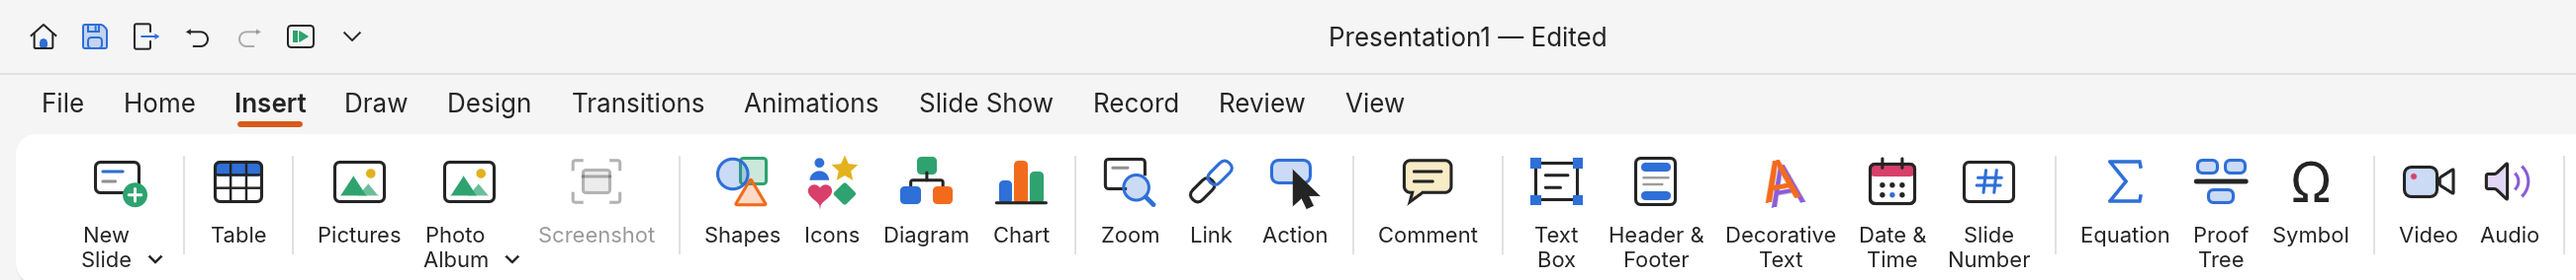
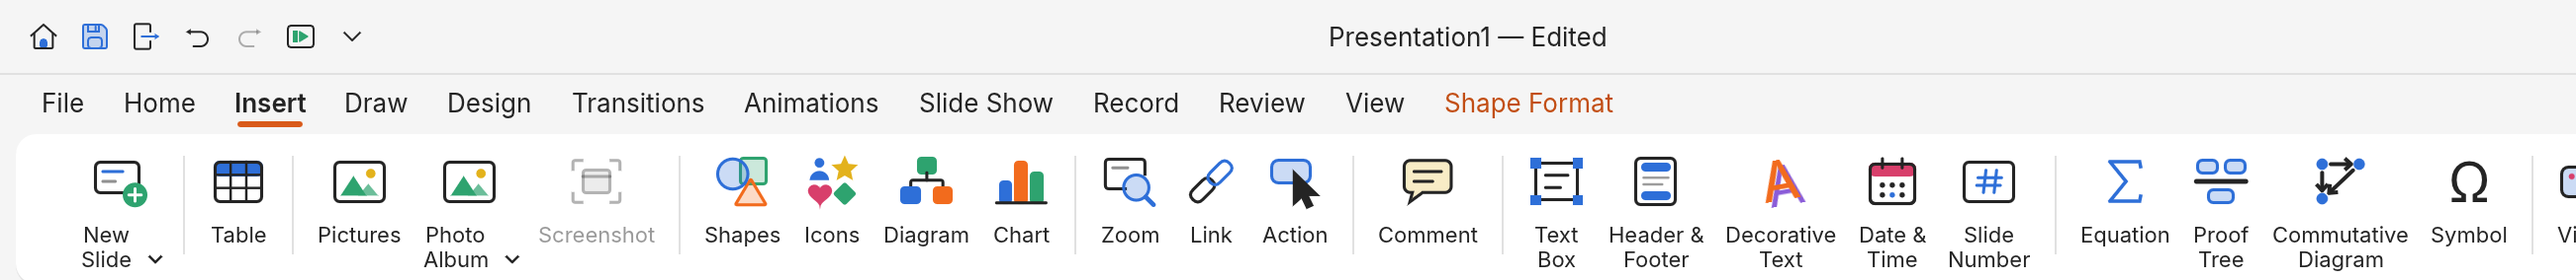
[cd] README and ROADMAP: commutative diagrams and the known limitations
A tutorial section for Insert > Commutative Diagram and tikz-cd input, with screenshots;
the README's limitations are now complete and grouped (all typeset LaTeX, formulas,
proof trees, diagrams and their editor), and the ROADMAP lists the main ones under
Features. The Insert tab screenshot shows the new button.

diff --git a/README.md b/README.md
@@ -58,7 +58,7 @@
 <p align="center">
   <a href="#what-works-today">What works</a> ·
   <a href="#getting-started">Getting started</a> ·
-  <a href="#tutorial-latex-equations-and-proof-trees">LaTeX and proof trees</a> ·
+  <a href="#tutorial-latex-equations-proof-trees-and-commutative-diagrams">LaTeX and diagrams</a> ·
   <a href="#agents-cli-and-mcp">Agents, CLI and MCP</a> ·
   <a href="#roadmap">Roadmap</a> ·
   <a href="#downloads">Downloads</a> ·
@@ -83,8 +83,9 @@ Today it can:
 - **Add content**: pictures with crop and corrections, tables with styles, charts, SmartArt basics,
   audio and video (MP3, AAC, FLAC, ALAC, Ogg, Opus, WAV, AIFF; H.264, HEVC, VP9, AV1).
 - **Typeset math and logic**: LaTeX formulas, arrays and proof trees (ebproof, bussproofs,
-  mathpartir, proof.sty), equations inside a line of text, and a visual Proof Tree builder (see the
-  [tutorial](#tutorial-latex-equations-and-proof-trees)).
+  mathpartir, proof.sty), equations inside a line of text, a visual Proof Tree builder, and
+  commutative diagrams (tikz-cd) drawn in a grid editor (see the
+  [tutorial](#tutorial-latex-equations-proof-trees-and-commutative-diagrams)).
 - **Present**: transitions (including Morph), entrance/emphasis/exit and motion-path animations,
   by-paragraph builds, full-screen slide show, presenter view, pen, rehearse timings, media playback.
 - **Exchange files**: open and save .pptx presentations, export PDF (slides, notes pages, handouts
@@ -156,16 +157,16 @@ crashed survives the next start. The file stops growing at 16 MiB. `--version` w
 The logger is `apps/deckcraft/src/logging.rs`; the realtime audio callback does not log. The web
 app logs to the browser console instead.
 
-## Tutorial: LaTeX equations and proof trees
+## Tutorial: LaTeX equations, proof trees and commutative diagrams
 
-DeckCraft sets LaTeX itself: formulas, arrays and tables, aligned derivations and proof trees
-become ordinary slide shapes (text boxes and rules in a group). They look the same in DeckCraft,
+DeckCraft sets LaTeX itself: formulas, arrays and tables, aligned derivations, proof trees and
+commutative diagrams become ordinary slide shapes (text boxes, rules and arrows in a group). They look the same in DeckCraft,
 in exported PDFs and in PowerPoint, and they keep their LaTeX, so you can open them again and
 change them. This tutorial walks through each part. Shortcuts are written with Ctrl; on macOS use ⌘.
 
 <p align="center">
-  <img alt="The Insert tab with Equation, Proof Tree and Symbol side by side" src="docs/images/latex-insert-tab.png" width="900"><br>
-  <sub>Everything starts on the Insert tab: <b>Equation</b> and <b>Proof Tree</b></sub>
+  <img alt="The Insert tab with Equation, Proof Tree, Commutative Diagram and Symbol side by side" src="docs/images/latex-insert-tab.png" width="900"><br>
+  <sub>Everything starts on the Insert tab: <b>Equation</b>, <b>Proof Tree</b> and <b>Commutative Diagram</b></sub>
 </p>
 
 ### 1. Insert a formula
@@ -350,8 +351,9 @@ and says what it can't keep).
 
 - **Double-click** a typeset formula or array to reopen it in the Equation dialog, with **Change
   the selected one** ticked so **Update** replaces it in place (untick it to insert a new copy).
-  Double-click a proof tree to open it in the Proof Tree builder; from the Equation dialog,
-  **Open in Proof Tree builder** does the same. Each change is one step of the deck's undo.
+  Double-click a proof tree to open it in the Proof Tree builder, and a diagram to open it in the
+  Commutative Diagram editor; from the Equation dialog, **Open in Proof Tree builder** and **Open
+  in diagram editor** do the same. Each change is one step of the deck's undo.
 - **Resize** a typeset shape with a corner handle. It keeps its proportions and is set again at the
   new size, so the text and rules stay sharp rather than stretched, and the new size is kept for
   the next edit.
@@ -360,7 +362,92 @@ and says what it can't keep).
   <img alt="The same proof at 14 pt and, dragged larger, set again at about 49 pt" src="docs/images/latex-resize.png" width="900">
 </p>
 
-### 6. From scripts and agents
+### 6. Draw commutative diagrams
+
+**Insert ▸ Commutative Diagram** opens an editor for the diagrams of category theory: objects on a
+grid and arrows between them, in the manner of quiver. DeckCraft draws the diagram itself,
+following tikz-cd's spacing and arrow tips, so no TeX installation is needed. It keeps the
+diagram as tikz-cd LaTeX, which compiles in your paper with `\usepackage{tikz-cd}`.
+
+<p align="center">
+  <img alt="The Commutative Diagram editor: a pullback square on its grid with the hooked arrow f selected, and the side panel with its label, label side, start, line and end pictures, curve, offset, shortening and crossing over" src="docs/images/cd-editor.png" width="900">
+</p>
+
+On the grid:
+
+- **Add an object**: click an empty cell. Its label starts as `\bullet` and is already selected,
+  so type to replace it; click the next empty cell for the next object.
+- **Add an arrow**: drag from one object to another. Drop it on an empty cell to add the object
+  there too, back on the same object for a loop, or on an arrow for an arrow between arrows (a
+  2-cell, drawn double, like a natural transformation).
+- **Select**: click (Shift-click adds), or drag a box around several. Double-click an object or an
+  arrow to type its label.
+- **Move**: Alt-drag objects (or Alt+arrow keys); their arrows follow.
+- **Shape an arrow**: drag the round handle in the middle of a selected arrow sideways to bend it,
+  and drag its label along it or across to its other side.
+
+What the side panel sets depends on the selection:
+
+| Selected | You set |
+|---|---|
+| Nothing | Row and column spacing: tikz-cd's tiny, small, scriptsize, normal, large and huge, or a length in ems |
+| An object | Its label (LaTeX, with a strip of common symbols: ∘ × ⊗ ≅ ⊣ ⊥ ∃! 𝒞 α…), a frame (none, box, circle) and a colour |
+| An arrow | Its label, the label's side (left or right of the arrow, on it over a patch of background, or on it with nothing behind) and its place along the arrow; how it starts (nothing, ↣, a hook either way, ↦, an arrowhead), its line (solid, dashed, dotted, squiggly, double, or none for a label only) and how it ends (arrowhead, ↠, a harpoon either way, nothing), each picked from a picture of it; curve; offset (for parallel arrows); shortening at either end; width; colour; crossing over; and a loop's direction |
+
+Several arrows or objects selected change together. The toolbar has **Undo**/**Redo**,
+**Copy**/**Cut**/**Paste** (pasting at the selected cell; tikz-cd text from the clipboard pastes
+too), **Delete**, **Reverse**, **Flip ↔**, **Flip ↕**, **Rotate**, **Corner ⌟** (marks the
+selected object as a pullback or pushout corner), **Templates**, zoom, and the **Size** and
+**Font** the diagram is set in. The templates are a commutative square, triangle, pullback,
+pushout, product, coproduct, equalizer, span, cospan, adjunction, natural transformation, short
+exact sequence, isomorphism and endomorphism.
+
+| Keys | Does |
+|---|---|
+| Arrow keys | Move between cells (selecting the object there) |
+| Alt+arrow keys | Move the selected objects a cell |
+| Enter or F2 | Type the selected object's or arrow's label; on an empty cell, add an object |
+| Delete | Delete the selection (and the arrows reaching it) |
+| Ctrl+A, Ctrl+C / X / V | Select everything; copy, cut, paste |
+| Ctrl+Z, Ctrl+Shift+Z or Ctrl+Y | Undo, redo |
+| Esc | In a label: put it back as it was. Then: clear the selection. Then: close (asking first if anything changed) |
+| Ctrl+Enter | Insert or Update, and close |
+
+The **LaTeX (tikz-cd)** pane shows what the editor writes, and edits both ways: paste a diagram
+from a paper, or from quiver's LaTeX export, and the picture follows. **Copy LaTeX** puts it on the
+clipboard. The pullback above is:
+
+```latex
+\begin{tikzcd}
+	P \arrow[r, "p_2"] \arrow[d, "p_1"'] \arrow[dr, phantom, "\lrcorner", very near start] & B \arrow[d, two heads, "g"] \\
+	A \arrow[r, hook, "f"'] & C
+\end{tikzcd}
+```
+
+<p align="center">
+  <img alt="A slide of four diagrams: a pullback with a hook and an epimorphism, a natural transformation between two functors, a diagram with every kind of arrow, and an adjunction" src="docs/images/cd-diagrams.png" width="900">
+</p>
+
+You can also type or paste tikz-cd straight into **Insert ▸ Equation**. DeckCraft reads:
+
+- `\arrow[…]` and `\ar[…]`, the older `\arrow{dr}{f}` form and the `\rar`-style shortcuts;
+- targets by direction (`r`, `dl`, `uu`) or by `from=`/`to=` with a cell (`2-1`) or a name given
+  by `|[alias=…]|`, and 2-cells reaching arrows by the name of a label node (`""{name=U}`);
+- labels `"f"`, `"f"'` (other side), `"f" description`, `"f" marking`, `near start`, `pos=0.3`,
+  `"f"{text=red}`;
+- the arrow styles in tikz-cd's manual (`hook`, `hook'`, `tail`, `two heads`, `maps to`,
+  `harpoon`, `Rightarrow`, `Leftrightarrow`, `equal`, `dashed`, `dotted`, `squiggly`, `phantom`,
+  `hookrightarrow`, `twoheadleftarrow`…), `bend left/right`, `shift left/right`, `shorten`,
+  `line width` and TikZ's `thin`…`ultra thick`, colours (`red`, `{rgb,255:red,…}`),
+  `crossing over`, `loop above`/`right`/`below`/`left`;
+- cell frames (`|[draw]|`, `|[draw, circle]|`), `row sep`, `column sep`, `sep`, `\\[2em]`,
+  `&[1em]` and `ampersand replacement`.
+
+Options DeckCraft doesn't draw are kept and written back. Squiggly arrows need
+`\usetikzlibrary{decorations.pathmorphing}` in your preamble; the LaTeX says so in a comment, and
+the editor in its footer.
+
+### 7. From scripts and agents
 
 The same features are commands, so `deckcraft-cli`, the control channel and MCP agents use them
 too:
@@ -375,27 +462,88 @@ deckcraft-cli run \
 
 | Command | Parameters | Does |
 |---|---|---|
-| `insert.latex` | `latex`, `rect?` (x and y place it), `size?` (24), `font?` (Liberation Serif; `""` for the theme's) | Typesets a formula, grid or proof; returns its `id` and `kind` |
+| `insert.latex` | `latex`, `rect?` (x and y place it), `size?` (24), `font?` (Liberation Serif; `""` for the theme's) | Typesets a formula, grid, proof or tikz-cd diagram; returns its `id` and `kind` |
 | `insert.equation` | `latex`, `rect?`, `size?` | Inserts an Office equation; while text is being edited, inline at the cursor |
 | `latex.get` | `id?` | The selected LaTeX shape's `latex`, `kind`, `size` and `font` |
 | `latex.set` | `latex`, `id?`, `size?`, `font?` | Sets a LaTeX shape again in place, or rewrites an equation |
 
+A diagram is the same command with tikz-cd:
+
+```sh
+deckcraft-cli run \
+  --cmd 'insert.latex={"latex":"\\begin{tikzcd} A \\arrow[r, \"f\"] \\arrow[d, hook] & B \\arrow[d, two heads] \\\\ C \\arrow[r, \"g\"] & D \\end{tikzcd}","size":28}' \
+  --export square.png
+```
+
 `deckcraft-cli describe insert.latex` prints the full parameter description.
 
 ### Limitations
+
+**All typeset LaTeX** (formulas, arrays, proof trees and diagrams):
+
+- It is set again from its LaTeX whenever it is edited or resized. Changes made to its pieces
+  (in DeckCraft after ungrouping, or in PowerPoint) are replaced at that point.
+- amssymb's names (`\vDash`, `\Vdash`, `\nvdash`, `\Box`, `\Diamond`, `\land`, `\lor`,
+  `\lrcorner` and many relations) and `\underset` over a function name
+  (`\underset{x}{\min} f(x)`) need the craft-math in DeckCraft's next craft-libs update. A build
+  against an older craft-libs shows those names as written.
+- Symbols Liberation Serif doesn't have (⊢, ⊨, ∧, script and blackboard letters such as 𝒞 and ℕ)
+  come from fallback fonts. Which installed font draws them can differ between machines. Choose
+  another font with the **Font** field or the `font` parameter.
+- A source is limited to 20,000 characters.
+
+**Formulas and equations:**
 
 - A formula is set on one line: `\frac{a}{b}` reads `a/b`, roots use √ and ∛, `\overset`,
   `\underset` and `\stackrel` sit as superscripts and subscripts, and matrices are written
   row by row. Stacked fractions, big delimiters and environments such as `cases` and `pmatrix`
   are not laid out in two dimensions yet.
 - Office equations are drawn in their linear form inside DeckCraft. PowerPoint shows them in full.
-- amssymb's names (`\vDash`, `\Vdash`, `\nvdash`, `\Box`, `\Diamond`, `\land`, `\lor` and many
-  relations) and `\underset` over a function name (`\underset{x}{\min} f(x)`) need the craft-math
-  in DeckCraft's next craft-libs update. A build against an older craft-libs shows those names as
-  written.
-- Symbols Liberation Serif doesn't have (such as ⊢, ⊨, ∧) come from DeckCraft's fallback fonts.
-  Choose another font with the builder's **Font** field or the `font` parameter.
-- A source is limited to 20,000 characters, and a proof to 2,000 steps and 160 levels.
+- An inline equation is changed through its text box (select the box, then **Insert ▸ Equation**),
+  which changes the box's first equation.
+
+**Proof trees:** a proof has at most 2,000 steps and 160 levels. The builder writes ebproof, so a
+proof written in bussproofs, mathpartir or proof.sty is rewritten in ebproof when you update it from
+the builder, and dotted rules become dashed (ebproof has none).
+
+**Commutative diagrams:**
+
+- DeckCraft draws the diagram itself. Spacing, arrow tips and label placement follow tikz-cd's
+  manual and its measured output, but objects are set in Liberation Serif rather than Computer
+  Modern, so widths differ a little. The height of each object is estimated, not measured from its
+  glyphs. Objects and labels are formulas, so the one-line limit above applies inside them.
+- Read, kept in the LaTeX, but not drawn: `sloped` labels and labels placed with `above`, `below`,
+  `left` or `right`; `start anchor`/`end anchor`; `xshift`, `yshift` and `shift={…}`; `out`, `in`,
+  `looseness` and `min distance`; `dash pattern`; TikZ arrow-tip specifications (`->`,
+  `-{Stealth}`) and `arrow style`; colour mixes such as `red!50`; `cells`, `arrows`, `labels`,
+  `cramped` and `math mode`; and cell options other than `draw`, `circle`, a colour and `alias`.
+  Such arrows are drawn with tikz-cd's defaults.
+- Only tikz-cd's named arrow styles are drawn. On a double line only its own tips are drawn (an
+  arrowhead, a bar or none at either end); other tips on a double line are drawn as on a single
+  line.
+- An arrow between arrows starts and ends at the middle of the arrows it joins (the `pos` of a
+  named label node isn't followed).
+- Loops go above, right, below or left of their object; bending or shifting a loop is ignored.
+- Labels on the arrow (`description`) and the gaps of `crossing over` are filled with the slide's
+  background colour, so on a picture or gradient background they show as a patch.
+- Squiggly arrows need `\usetikzlibrary{decorations.pathmorphing}` in your preamble; without it
+  tikz-cd draws them straight.
+- From quiver: triple arrows (⇛, from `quiver.sty`) are drawn double, `curve={height=…}` becomes
+  the nearest `bend`, and `between={…}{…}` is kept but not drawn. Share links aren't read; paste
+  quiver's LaTeX export instead.
+- Not read as diagrams: `\xymatrix`, amscd's `{CD}`, and every `tikzcd` after the first in one
+  source.
+- A diagram has at most 64 rows, 64 columns and 1,000 arrows; arrows between arrows nest at most
+  8 deep; a label or object has at most 2,000 characters.
+- The editor:
+  - It edits an arrow's first label; any others are drawn, kept and changed in the LaTeX pane.
+  - **Colour** colours an arrow together with its labels. The LaTeX can colour them separately.
+  - Row and column gaps written `\\[2em]` or `&[1em]` are kept but can't be changed in the
+    editor, and **Flip** and **Rotate** drop them.
+  - It writes the LaTeX in its own layout. Comments, spacing, cell names (`alias`) and the order of
+    the arrows aren't kept: arrows are written after the objects they start at, except in a
+    diagram with `crossing over`, whose order is kept because it decides what crosses what.
+  - Labels are typed in the side panel, not on the picture.
 
 ## Agents, CLI and MCP
 

diff --git a/ROADMAP.md b/ROADMAP.md
@@ -2,7 +2,7 @@
 
 **Stage: alpha** · next: beta, ~20 points and ~120–210 h away
 
-> **Last reviewed:** 2026-11-04 · **Last updated:** 2026-11-14 · **Change:** trivial (progress log: the README tutorial for LaTeX equations and proof trees; previous: trivial (progress log: the Proof Tree builder; previous: trivial (progress log: LaTeX equations and proof trees; equations checklist row M → P; previous: trivial (slide-list entries with missing relationships are reported as lost slides and open as repaired copies; the Opus decoder and the Ogg, MP4 and Matroska demuxers come from craft-libs; parity scores unchanged)))) · **Target:** Microsoft PowerPoint for Mac 16.113 (Microsoft 365)
+> **Last reviewed:** 2026-11-04 · **Last updated:** 2026-11-14 · **Change:** trivial (progress log: commutative diagrams (tikz-cd) and their editor; known limitations of typeset LaTeX; previous: trivial (progress log: the README tutorial for LaTeX equations and proof trees; previous: trivial (progress log: the Proof Tree builder; previous: trivial (progress log: LaTeX equations and proof trees; equations checklist row M → P; previous: trivial (slide-list entries with missing relationships are reported as lost slides and open as repaired copies; the Opus decoder and the Ogg, MP4 and Matroska demuxers come from craft-libs; parity scores unchanged))))) · **Target:** Microsoft PowerPoint for Mac 16.113 (Microsoft 365)
 > **Last reviewed:** 2026-11-02 · **Last updated:** 2026-11-03 · **Change:** trivial (progress log: web `?host=parent` bridge opens and saves through a same-origin framing page; scores unchanged) · **Target:** Microsoft PowerPoint for Mac 16.113 (Microsoft 365)
 
 > **Last reviewed:** 2026-11-02 · **Last updated:** 2026-11-03 · **Change:** trivial (community PR wave 10: PPTX and native saves keep table cell centred anchoring, text overflow, compatible line spacing, normalised character height, Thai distributed alignment, RTL table direction, alternate run language and reflection transforms; imported effects placed by parent time-node delays; Reuse Slides fits the destination size and brings custom table styles; deleted slides leave custom shows; merged shapes drop their animations; Compress Pictures measures grouped pictures at displayed size; parity scores unchanged) · **Target:** Microsoft PowerPoint for Mac 16.113 (Microsoft 365)
@@ -105,6 +105,30 @@ EMF/SVG pictures, the data-loss and startup-crash bugs (#60, #40, #59) and the b
 | Undo and clipboard | 100% | ~75% | 3–5 | [ui-parity](docs/ui-parity.md) |
 | Files (commands; formats above) | 75% | ~50% | in file formats | [file formats](docs/file-format-parity.md) |
 
+### Typeset LaTeX: known limitations
+
+Formulas, proof trees and commutative diagrams (part of Text) are typeset by DeckCraft itself.
+The [README's tutorial](README.md#limitations) lists every limitation; the main ones:
+
+- **Needs the next craft-libs update:** amssymb's names (`\vDash`, `\nvdash`, `\Box`, `\land`,
+  `\lrcorner` for pullback corners…) and `\underset` over a function name come with craft-math
+  changes that are on a local craft-libs branch, not yet in DeckCraft's pinned craft-libs.
+- **Formulas are one line:** no stacked fractions, `cases` or `pmatrix`. Office Math equations are
+  drawn as their linear text in DeckCraft.
+- **Diagrams are drawn by DeckCraft:** spacing and tips follow tikz-cd's manual and its measured
+  output, in Liberation Serif rather than Computer Modern. Not drawn, but kept in the LaTeX:
+  `sloped` labels, label anchors, `start`/`end anchor`, coordinate shifts, `in`/`out` angles,
+  TikZ arrow-tip specs and colour mixes. Arrows between arrows meet the middles of the arrows they
+  join. Loops go in four directions. Backgrounds behind labels and crossings use the slide's
+  background colour. Squiggly arrows need `decorations.pathmorphing` in the paper's preamble.
+  quiver's triple arrows are drawn double and its curve heights approximated; share links,
+  `\xymatrix` and `{CD}` aren't read.
+- **The diagram editor:** it edits an arrow's first label, colours an arrow with its labels,
+  doesn't edit row and column gaps, and rewrites the LaTeX in its own layout (comments and cell
+  names go).
+- **Limits:** 20,000 characters of LaTeX; proofs of 2,000 steps and 160 levels; diagrams of 64 × 64
+  cells and 1,000 arrows, nested 8 deep.
+
 ## Languages
 
 English only today; no string catalog yet (Ukrainian is in review as PR #34). Detail:
@@ -154,6 +178,7 @@ app's JSON control channel (`deckcraft --control PORT`).
 
 | Date | What landed |
 |---|---|
+| 2026-11-14 | Insert ▸ Commutative Diagram: an editor that draws category-theory diagrams on a grid (objects by click, arrows by drag, arrows between arrows; tails, lines, heads, curve, offset, labels, colour and crossing over set beside the picture; templates; a tikz-cd pane). `insert.latex` reads tikz-cd (hand-written or quiver's export) and draws it with tikz-cd's spacing and tips; the LaTeX it writes compiles with `\usepackage{tikz-cd}`; README tutorial section |
 | 2026-11-14 | README: a tutorial for LaTeX equations and proof trees, with screenshots. Typeset formulas: a `¬`, digit or symbol after a space no longer takes the fallback font of the symbol before it; `\underset{x}{\min}` is spaced as an operator |
 | 2026-11-14 | Equations: Insert ▸ Equation while typing puts the equation in the text at the cursor; resizing LaTeX (by its handles, Shape Format ▸ Size or Size and Position) scales its text, set again to fill the box |
 | 2026-11-14 | Insert ▸ Proof Tree: a builder that edits ebproof proof trees on their picture (add, remove, move and drag steps; rule kinds and labels; templates; symbols; copy and paste; undo; the LaTeX pane) and inserts or updates them through `insert.latex` / `latex.set`; double-clicking a proof opens it there. The ebproof it writes compiles with ebproof 2.1.1 |
@@ -346,6 +371,7 @@ app's JSON control channel (`deckcraft --control PORT`).
 
 | Date | Change | Summary |
 |---|---|---|
+| 2026-11-14 | trivial | Progress log: commutative diagrams (tikz-cd) and their editor; known limitations of typeset LaTeX listed under Features; parity scores unchanged |
 | 2026-11-14 | trivial | Progress log: the README tutorial for LaTeX equations and proof trees; parity scores unchanged |
 | 2026-11-14 | trivial | Progress log: the Proof Tree builder; parity scores unchanged |
 | 2026-11-14 | trivial | Progress log: LaTeX equations, arrays and proof trees; the equations checklist row moves M → P |

diff --git a/docs/gaps.md b/docs/gaps.md
@@ -1,6 +1,6 @@
 # Where DeckCraft falls short of PowerPoint
 
-> **Last reviewed:** 2026-10-30 · **Last updated:** 2026-11-14 · **Change:** trivial (equations: typeset formulas are one line, `\underset` over a function name waits on the craft-libs pin; previous: trivial (LaTeX in Insert ▸ Equation: Office Math equations and DeckCraft-typeset formulas, arrays and proof trees; the equations gap stays open for 2-D layout and an editor; previous: trivial (workflow-breaking regression fixed: Ctrl+C/X/V use the system clipboard again; #1414 to re-test on Windows; previous: trivial, run alternate language and reflection transforms survive saves; reused slide contents scale to the destination, picker thumbnails remain a gap; previous: trivial (locked No Fill and no-outline click-through regression coverage added; No Fill hit-testing follows resolved fill instead of the presence of a style (#1621); scores unchanged)))) · **Target:** Microsoft PowerPoint for Mac 16.113 (Microsoft 365)
+> **Last reviewed:** 2026-10-30 · **Last updated:** 2026-11-14 · **Change:** trivial (equations: commutative diagrams in tikz-cd and their editor; previous: trivial (equations: typeset formulas are one line, `\underset` over a function name waits on the craft-libs pin; previous: trivial (LaTeX in Insert ▸ Equation: Office Math equations and DeckCraft-typeset formulas, arrays and proof trees; the equations gap stays open for 2-D layout and an editor; previous: trivial (workflow-breaking regression fixed: Ctrl+C/X/V use the system clipboard again; #1414 to re-test on Windows; previous: trivial, run alternate language and reflection transforms survive saves; reused slide contents scale to the destination, picker thumbnails remain a gap; previous: trivial (locked No Fill and no-outline click-through regression coverage added; No Fill hit-testing follows resolved fill instead of the presence of a style (#1621); scores unchanged))))) · **Target:** Microsoft PowerPoint for Mac 16.113 (Microsoft 365)
 
 Every known shortfall, one entry each, ranked by how much it stops someone who presents with
 PowerPoint from switching. This is the work list: pick from the top. Numbers are summarized in
@@ -282,7 +282,8 @@ and starts at that effect. The pane has an advanced timeline with draggable bars
   Math equation PowerPoint edits as one, and `insert.latex` typesets formulas, arrays and tables
   with their rules, `align`/`gather` lines and proof trees (ebproof, bussproofs, mathpartir,
   proof.sty) as text boxes and lines that look the same in DeckCraft, PDF and PowerPoint; Insert ▸
-  Proof Tree builds and edits those proofs step by step on their picture. DeckCraft
+  Proof Tree builds and edits those proofs step by step on their picture; tikz-cd commutative
+  diagrams are drawn as paths and edited on a grid (Insert ▸ Commutative Diagram). DeckCraft
   still draws an Office Math equation as its linear text (no 2-D fractions, scripts, radicals or
   matrices) and has no structured equation editor; PRs #1891, #1029, #192 and #778 propose one.
   A typeset formula is one line too: `\frac` reads a/b, and `cases` and `pmatrix` aren't laid out.
@@ -378,6 +379,7 @@ Detail in [localization-parity.md](localization-parity.md).
 
 | Date | Change | Summary |
 |---|---|---|
+| 2026-11-14 | trivial | Equations: tikz-cd commutative diagrams drawn as paths, edited on a grid |
 | 2026-11-14 | trivial | Equations: typeset formulas are one line (`\frac`, `cases`, `pmatrix`); `\underset` over a function name waits on the craft-libs pin |
 | 2026-11-14 | trivial | Equations: the Proof Tree builder edits typeset proofs step by step; the entry stays open for 2-D layout of Office Math |
 | 2026-11-14 | trivial | Equations: LaTeX input as Office Math (`insert.equation`) or typeset by DeckCraft (`insert.latex`: formulas, arrays with rules, proof trees); the entry stays open for 2-D layout of Office Math and an equation editor |

diff --git a/ATTRIBUTION.md b/ATTRIBUTION.md
@@ -26,7 +26,7 @@ artwork. The ribbon and menu icons stay original drawings.
 | `assets/app-icon/hicolor/scalable/apps/ai.storyteller.deckcraft.svg` | DeckCraft contributors | the shapes of `assets/app-icon/icon-source.deckcraft` written out as SVG (same coordinates, colours and corner radii) | MIT OR Apache-2.0 | Scalable app icon for Linux desktops (hicolor theme) |
 | `assets/app-icon/icon-source.deckcraft` | DeckCraft contributors | made with `deckcraft-cli run` (see git history) | MIT OR Apache-2.0 | Source of the placeholder icon |
 | `docs/images/editor.png`, `docs/images/shape-format.png`, `docs/images/format-pane.png`, `docs/images/slide-sorter.png`, `docs/images/dark-mode.png`, `docs/images/sample-deck.png` | DeckCraft contributors | Screenshots of DeckCraft and slides rendered by `deckcraft-cli` from the built-in sample deck (original content; Inter font, OFL-1.1) | MIT OR Apache-2.0 | README screenshots |
-| `docs/images/latex-insert-tab.png`, `docs/images/latex-equation-dialog.png`, `docs/images/latex-formulas.png`, `docs/images/latex-inline-dialog.png`, `docs/images/latex-proof-syntaxes.png`, `docs/images/latex-proof-builder.png`, `docs/images/latex-proof-builder-latex.png`, `docs/images/latex-proof-templates.png`, `docs/images/latex-resize.png` | DeckCraft contributors | Screenshots of DeckCraft and slides rendered by `deckcraft-cli` from decks made for the LaTeX tutorial (original content; fonts: Inter, Liberation Serif, Caladea, BIZ UDPGothic, LXGW WenKai Lite, NanumGothic and Noto Sans Symbols 2 from craft-fonts, OFL-1.1; Noto Sans, OFL-1.1, and DejaVu Sans, Bitstream-Vera, as installed symbol fallbacks; Hack for code, MIT / Bitstream-Vera) | MIT OR Apache-2.0 | README LaTeX and proof tree tutorial |
+| `docs/images/latex-insert-tab.png`, `docs/images/latex-equation-dialog.png`, `docs/images/latex-formulas.png`, `docs/images/latex-inline-dialog.png`, `docs/images/latex-proof-syntaxes.png`, `docs/images/latex-proof-builder.png`, `docs/images/latex-proof-builder-latex.png`, `docs/images/latex-proof-templates.png`, `docs/images/latex-resize.png`, `docs/images/cd-editor.png`, `docs/images/cd-diagrams.png` | DeckCraft contributors | Screenshots of DeckCraft and slides rendered by `deckcraft-cli` from decks made for the LaTeX tutorial (original content; fonts: Inter, Liberation Serif, Caladea, BIZ UDPGothic, LXGW WenKai Lite, NanumGothic, Noto Sans Symbols and Noto Sans Symbols 2 from craft-fonts, OFL-1.1; Noto Sans and Asana Math, OFL-1.1, and DejaVu Sans, Bitstream-Vera, as installed symbol fallbacks; Hack for code, MIT / Bitstream-Vera) | MIT OR Apache-2.0 | README LaTeX, proof tree and commutative diagram tutorial |
 | `crates/media/tests/fixtures/tone*` (`tone.mp3`, `.m4a`, `.aac`, `.ogg`, `.opus`, `.flac`, `.wma`, `tone-alac.m4a`) | DeckCraft contributors | synthesised 0.5 s 440 Hz sine, encoded by `crates/media/tests/fixtures/make.sh` (ffmpeg as the encoder only) | CC0-1.0 | Audio decoding tests |
 | `crates/media/tests/fixtures/clip-*` (`clip-h264.mp4`, `clip-h264.mov`, `clip-hevc.mp4`, `clip-vp8.webm`, `clip-vp9.webm`, `clip-av1.mkv`) | DeckCraft contributors | 6 frames of a colour gradient generated by `make.sh` (python3), encoded by ffmpeg (x264 / x265 / libvpx / libvpx-vp9 / SVT-AV1 as encoders only) | CC0-1.0 | Video decoding tests |
 | `crates/media/tests/fixtures/damaged/*` (`ebml-header.mkv`, `ebml-position.webm`, `demux-loop.mp4`, `demux-loop.m4a`) | DeckCraft contributors | the `clip-*` and `tone*` fixtures above with bytes changed by a mutation fuzzer | CC0-1.0 | Damaged media must not panic or hang |

diff --git a/docs/parity-checklist.md b/docs/parity-checklist.md
@@ -2,7 +2,7 @@
 
 > **Generated:** 2026-10-14 (bullets/numbering remain D after empty-line marker review; summary by `cargo xtask parity`; rows re-scored by the 2026-10-14 community PR wave, duplicate Thesaurus, AutoCorrect, Artistic effects and Corrections rows folded; Preview in editor re-scored 2026-10-13; earlier rows re-scored 2026-10-10 against PowerPoint for Mac 16.113.4; video/animated GIF row re-scored 2026-10-11, #171) · **Target:** Microsoft PowerPoint for Mac 16.113 (Microsoft 365)
 
-> **Last updated:** 2026-11-14 · Equations re-scored M → P: LaTeX input as Office Math (`insert.equation`) or typeset formulas, arrays and proof trees (`insert.latex`). Previous (2026-11-03): Community PR wave 10: reflection transforms survive resaves (row stays P, rendering partial); Reuse Slides fits the destination size and brings referenced custom table styles (row stays P, picker has no thumbnails); Compress Pictures measures grouped pictures at displayed size (stays D). Scores unchanged.
+> **Last updated:** 2026-11-14 · Equations row also names tikz-cd commutative diagrams (score unchanged). Previous (2026-11-14): Equations re-scored M → P: LaTeX input as Office Math (`insert.equation`) or typeset formulas, arrays and proof trees (`insert.latex`). Previous (2026-11-03): Community PR wave 10: reflection transforms survive resaves (row stays P, rendering partial); Reuse Slides fits the destination size and brings referenced custom table styles (row stays P, picker has no thumbnails); Compress Pictures measures grouped pictures at displayed size (stays D). Scores unchanged.
 >
 > **Previously (2026-11-02):** Tiled picture fills keep their size in scaled groups and upright tiles (#1693); Picture and texture fill row remains P. Scores unchanged.
 >
@@ -164,7 +164,7 @@ Open P0 items: Contextual tabs (Shape Format, Picture Format, Table Design/Layou
 | Text | AutoCorrect and smart quotes | P2 | P |
 | Text | Thesaurus | P2 | P |
 | Text | Symbols and emoji | P1 | D |
-| Text | Equations (LaTeX as Office Math or typeset by DeckCraft, proof trees; Office Math drawn as linear text) | P2 | P |
+| Text | Equations (LaTeX as Office Math or typeset by DeckCraft, proof trees, tikz-cd commutative diagrams; Office Math drawn as linear text) | P2 | P |
 | Text | Hyperlinks (URL, slide, email) | P1 | D |
 | Text | Date/time and slide number fields | P1 | D |
 | Text | Right-to-left and complex scripts | P1 | P |
@@ -244,6 +244,7 @@ Open P0 items: Contextual tabs (Shape Format, Picture Format, Table Design/Layou
 
 | Date | Change | Summary |
 |---|---|---|
+| 2026-11-14 | trivial | Equations row: tikz-cd commutative diagrams, drawn by DeckCraft and edited on a grid; scores unchanged |
 | 2026-11-14 | minor | Equations M → P: LaTeX input as Office Math or as DeckCraft-typeset formulas, arrays and proof trees; Office Math is still drawn as linear text |
 | 2026-11-02 | trivial | Reflection transform/fade serialization retained; its P score stays because rendering remains partial |
 | 2026-11-03 | trivial | Reuse Slides transfers referenced custom table styles; row remains P because other reuse behavior is still partial, summary scores unchanged |
